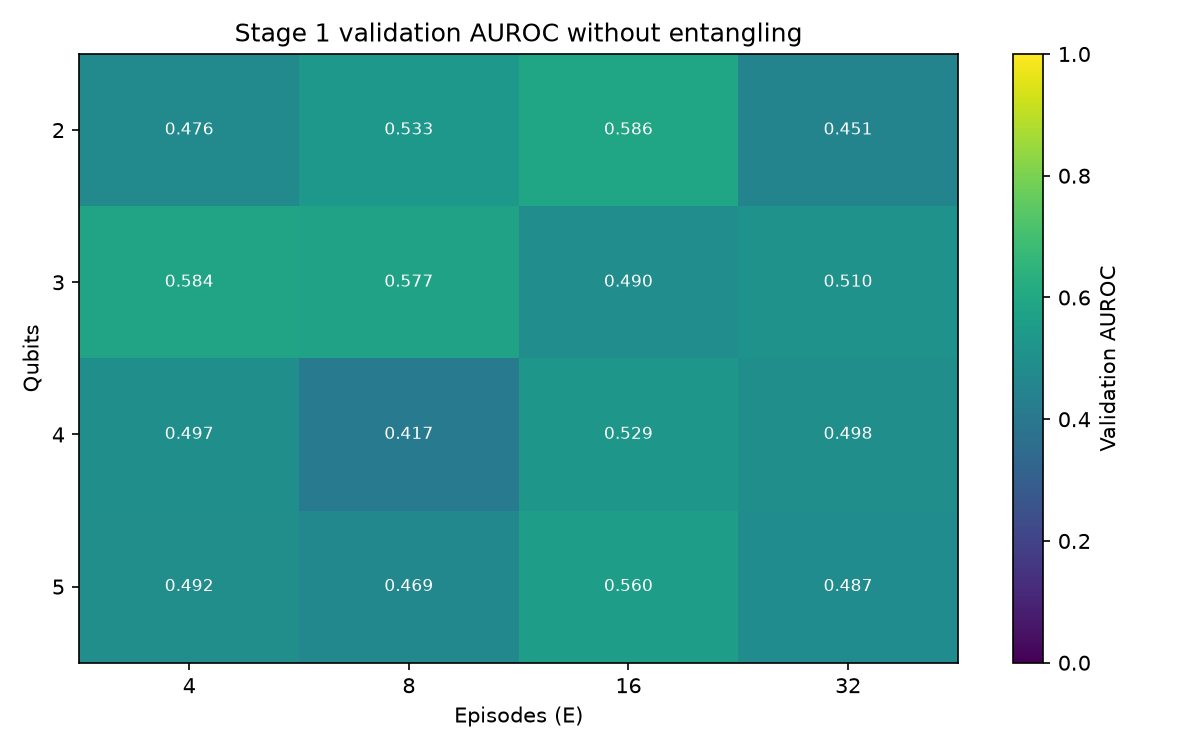
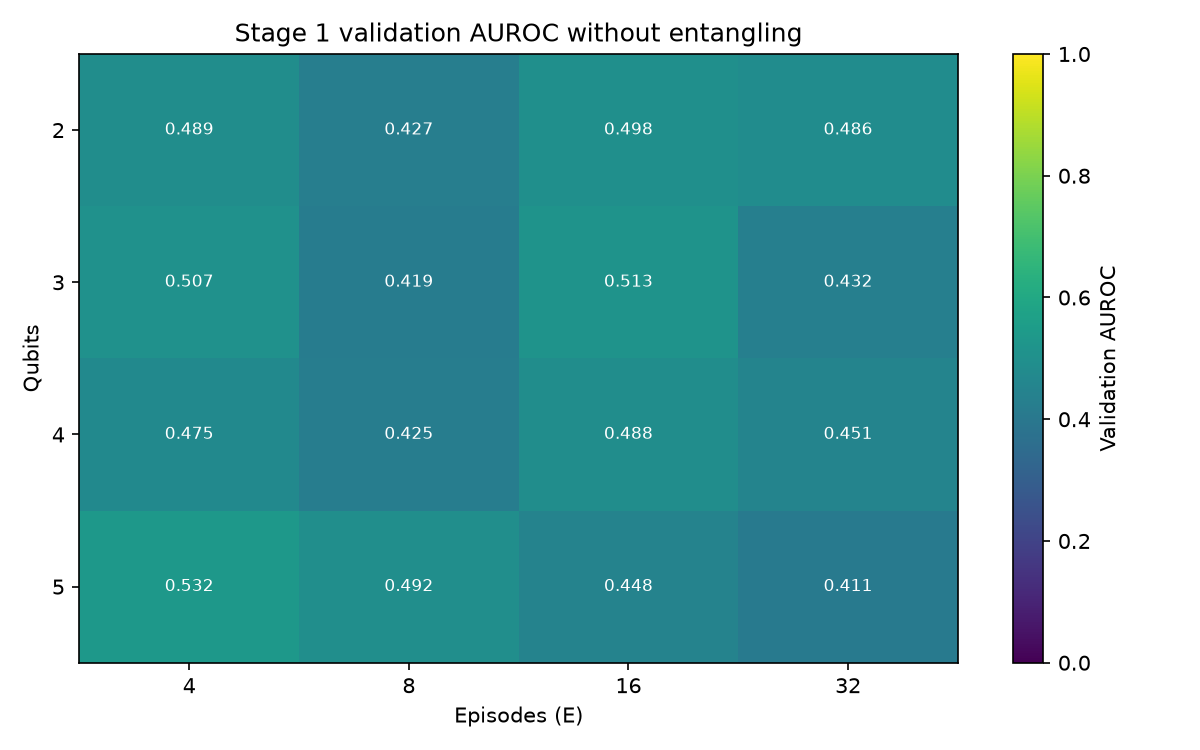
PAPER-81: fixed qiskit pipeline

diff --git a/papers/RF-RQKS/lib/qiskit_qrks.py b/papers/RF-RQKS/lib/qiskit_qrks.py
@@ -19,7 +19,8 @@ class QiskitQRKS(nn.Module):
     episode_count : int
         Number of randomized episodes.
     L_strategy : str
-        Encoding strategy, either ``L1`` or ``L2``.
+        Encoding strategy, either ``L1`` or ``L2``. Both strategies use the
+        Section III single-qubit ``Rx``-then-``Ry`` upload in the gate model.
     V_strategy : str | None
         Entangling strategy. ``None`` omits entangling gates.
     data_size : int
@@ -54,20 +55,15 @@ class QiskitQRKS(nn.Module):
         self.L_strategy = L_strategy
         self.V_strategy = V_strategy
         self.output_feature_count = episode_count * 2**qubit_count
-        input_size = (
-            depth * (qubit_count // 2) if L_strategy == "L1" else depth * qubit_count
-        )
+        # Section III assigns two encoded angles to every qubit in every
+        # upload layer: Rx(phi_x) followed by Ry(phi_y).
+        input_size = depth * qubit_count * 2
         self.register_buffer(
             "weights", torch.randn(episode_count, input_size, data_size) * 2.0
         )
         self.register_buffer(
             "biases", torch.rand(episode_count, input_size) * 2.0 * torch.pi
         )
-        self.random_angles = np.random.uniform(
-            0.0, 2.0 * np.pi, (depth + 1, qubit_count, 2)
-        )
-        if V_strategy == "V1" and same_random_layer:
-            self.random_angles[1:] = self.random_angles[0]
 
     def _build_circuit(self, angles: np.ndarray, episode: int):
         from qiskit import QuantumCircuit
@@ -75,26 +71,21 @@ class QiskitQRKS(nn.Module):
         circuit = QuantumCircuit(self.qubit_count)
         phase_index = 0
         for depth_index in range(self.depth):
-            if self.V_strategy is not None:
-                for qubit in range(self.qubit_count):
-                    random_ry, random_rz = self.random_angles[depth_index, qubit]
-                    circuit.ry(float(random_ry), qubit)
-                    circuit.rz(float(random_rz), qubit)
-                for qubit in range(self.qubit_count - 1):
-                    circuit.cx(qubit, qubit + 1)
-            if self.L_strategy == "L1":
-                for qubit in range(0, self.qubit_count, 2):
-                    circuit.ry(float(angles[phase_index]), qubit)
-                    phase_index += 1
-            else:
-                for qubit in range(self.qubit_count):
-                    circuit.ry(float(angles[phase_index]), qubit)
-                    phase_index += 1
-        if self.V_strategy is not None:
             for qubit in range(self.qubit_count):
-                random_ry, random_rz = self.random_angles[self.depth, qubit]
-                circuit.ry(float(random_ry), qubit)
-                circuit.rz(float(random_rz), qubit)
+                circuit.rx(float(angles[phase_index]), qubit)
+                phase_index += 1
+                circuit.ry(float(angles[phase_index]), qubit)
+                phase_index += 1
+
+            # Entanglers occur only between successive upload layers. The
+            # final upload is therefore never followed by a CZ ring.
+            if (
+                self.V_strategy is not None
+                and depth_index < self.depth - 1
+                and self.qubit_count > 1
+            ):
+                for qubit in range(self.qubit_count):
+                    circuit.cz(qubit, (qubit + 1) % self.qubit_count)
         return circuit
 
     def forward(self, features: torch.Tensor) -> torch.Tensor:

diff --git a/papers/RF-RQKS/tests/test_ablation.py b/papers/RF-RQKS/tests/test_ablation.py
@@ -98,6 +98,42 @@ def test_qiskit_sampler_output_shape_and_probability_normalization() -> None:
     assert torch.allclose(episode_probabilities.sum(dim=2), torch.ones(4, 2), atol=1e-5)
 
 
+def test_qiskit_circuit_matches_section_iii_upload_and_entangler_order() -> None:
+    from lib.qiskit_qrks import QiskitQRKS
+
+    sampler = QiskitQRKS(
+        qubit_count=3,
+        depth=2,
+        episode_count=1,
+        L_strategy="L2",
+        V_strategy="V1",
+        data_size=4,
+    )
+    circuit = sampler._build_circuit(np.arange(12, dtype=np.float32), episode=0)
+
+    assert [instruction.operation.name for instruction in circuit.data] == [
+        "rx",
+        "ry",
+        "rx",
+        "ry",
+        "rx",
+        "ry",
+        "cz",
+        "cz",
+        "cz",
+        "rx",
+        "ry",
+        "rx",
+        "ry",
+        "rx",
+        "ry",
+    ]
+    assert [
+        tuple(circuit.qubits.index(qubit) for qubit in instruction.qubits)
+        for instruction in circuit.data[6:9]
+    ] == [(0, 1), (1, 2), (2, 0)]
+
+
 def test_qiskit_sampler_rejects_hardware_execution() -> None:
     with pytest.raises(ValueError, match="simulator-only"):
         build_sampler(

diff --git a/papers/RF-RQKS/README.md b/papers/RF-RQKS/README.md
@@ -366,6 +366,11 @@ the encoding choices, V1/V2/V3 are the optional entangling choices, and each
 episode emits ``2**qubit_count`` computational-basis probability features. It
 does not support ``run_on_hardware``.
 
+The Qiskit circuit follows Section III of the paper: every upload layer applies
+``Rx(phi_x)`` followed by ``Ry(phi_y)`` on each qubit, and an optional CZ ring
+is inserted only between consecutive upload layers. The final upload layer is
+not followed by an entangler.
+
 It evaluates all four direct and QKS readouts for the fixed model in the
 config and writes `figures/figure_6.png`. The QPU variant uses the same
 pipeline and requires the representation under
